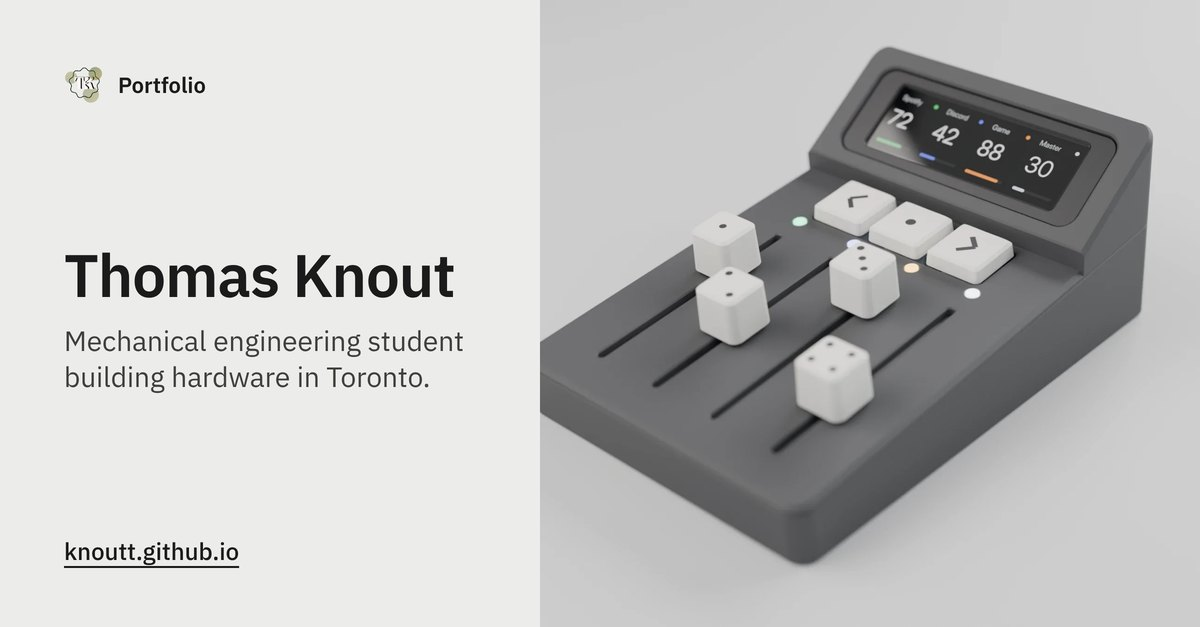
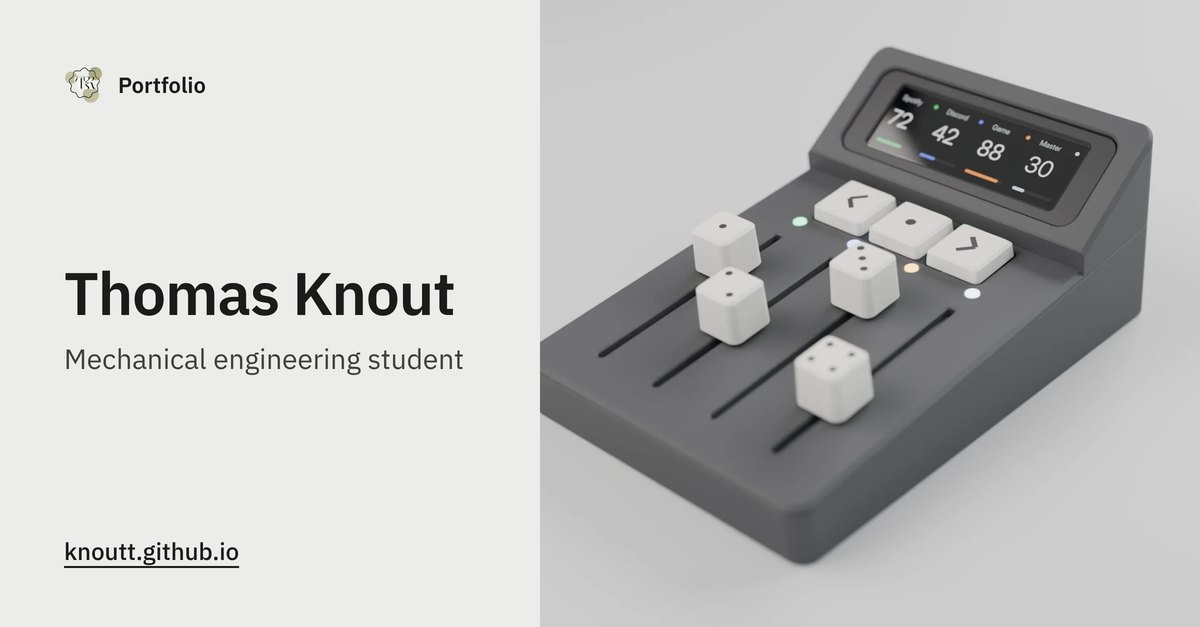
Shorten the preview image tagline to "Mechanical engineering student"
Claude-Session: https://claude.ai/code/session_01M16wsy2fy9xArnKeoF3ptH

Changed region(s): [[0.0308, 0.3939, 0.4008, 0.6364]]

diff --git a/contact.html b/contact.html
@@ -12,7 +12,7 @@
 <meta property="og:image" content="https://knoutt.github.io/assets/og-image.jpg">
 <meta property="og:image:width" content="1200">
 <meta property="og:image:height" content="627">
-<meta property="og:image:alt" content="Thomas Knout, mechanical engineering student building hardware in Toronto, next to a render of the Trackside desk mixer.">
+<meta property="og:image:alt" content="Thomas Knout, mechanical engineering student, next to a render of the Trackside desk mixer.">
 <meta name="twitter:card" content="summary_large_image">
 <link rel="icon" href="assets/favicon.png" type="image/png">
 <link rel="preconnect" href="https://fonts.googleapis.com">

diff --git a/index.html b/index.html
@@ -12,7 +12,7 @@
 <meta property="og:image" content="https://knoutt.github.io/assets/og-image.jpg">
 <meta property="og:image:width" content="1200">
 <meta property="og:image:height" content="627">
-<meta property="og:image:alt" content="Thomas Knout, mechanical engineering student building hardware in Toronto, next to a render of the Trackside desk mixer.">
+<meta property="og:image:alt" content="Thomas Knout, mechanical engineering student, next to a render of the Trackside desk mixer.">
 <meta name="twitter:card" content="summary_large_image">
 <link rel="icon" href="assets/favicon.png" type="image/png">
 <link rel="preconnect" href="https://fonts.googleapis.com">

diff --git a/projects.html b/projects.html
@@ -12,7 +12,7 @@
 <meta property="og:image" content="https://knoutt.github.io/assets/og-image.jpg">
 <meta property="og:image:width" content="1200">
 <meta property="og:image:height" content="627">
-<meta property="og:image:alt" content="Thomas Knout, mechanical engineering student building hardware in Toronto, next to a render of the Trackside desk mixer.">
+<meta property="og:image:alt" content="Thomas Knout, mechanical engineering student, next to a render of the Trackside desk mixer.">
 <meta name="twitter:card" content="summary_large_image">
 <link rel="icon" href="assets/favicon.png" type="image/png">
 <link rel="preconnect" href="https://fonts.googleapis.com">
